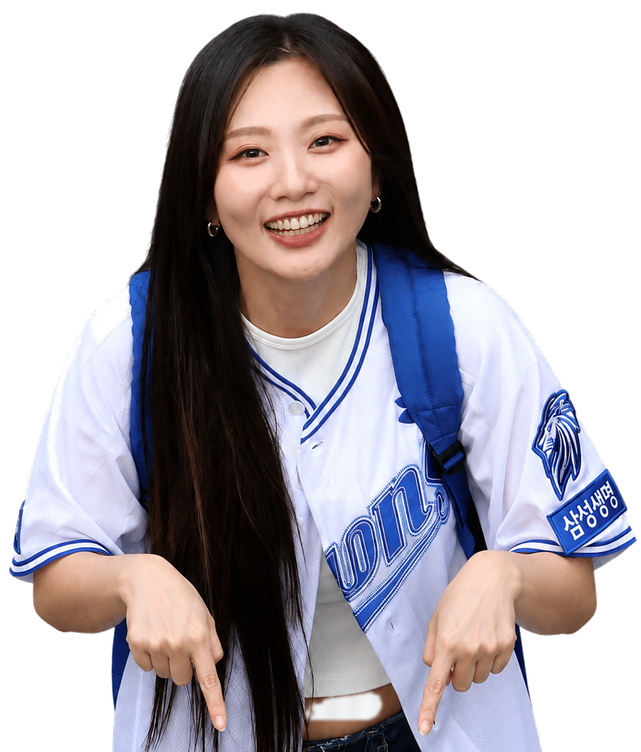
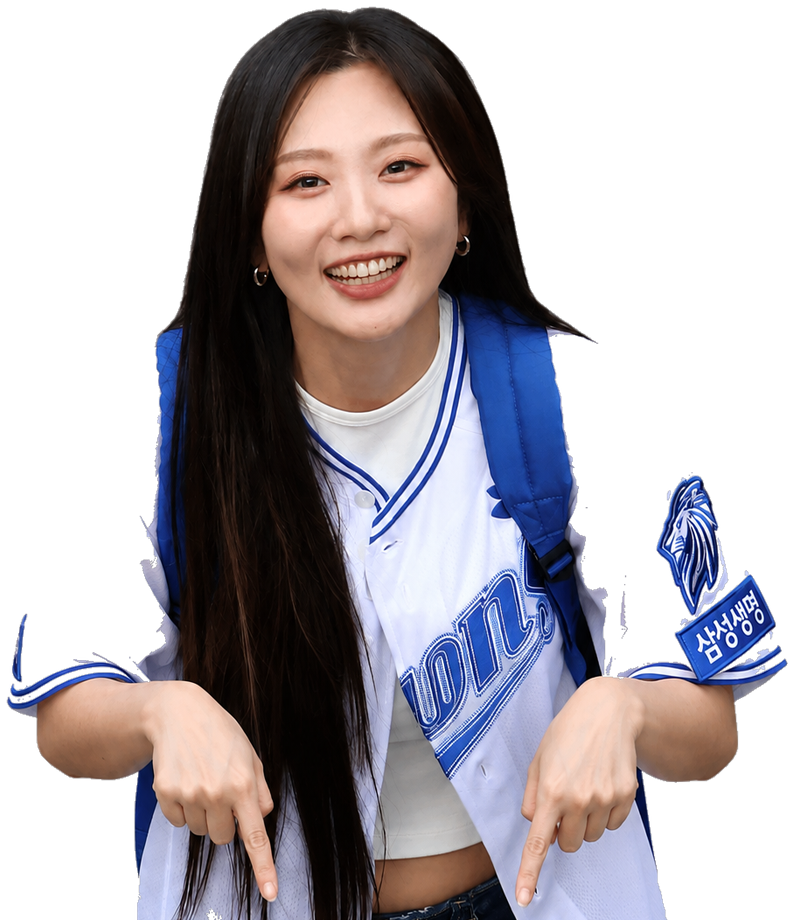
Add files via upload

diff --git a/jemechu/sw.js b/jemechu/sw.js
@@ -1,4 +1,4 @@
-const CACHE_NAME = "what-to-eat-v9";
+const CACHE_NAME = "what-to-eat-v10";
 const ASSETS = [
   "./",
   "./index.html",
